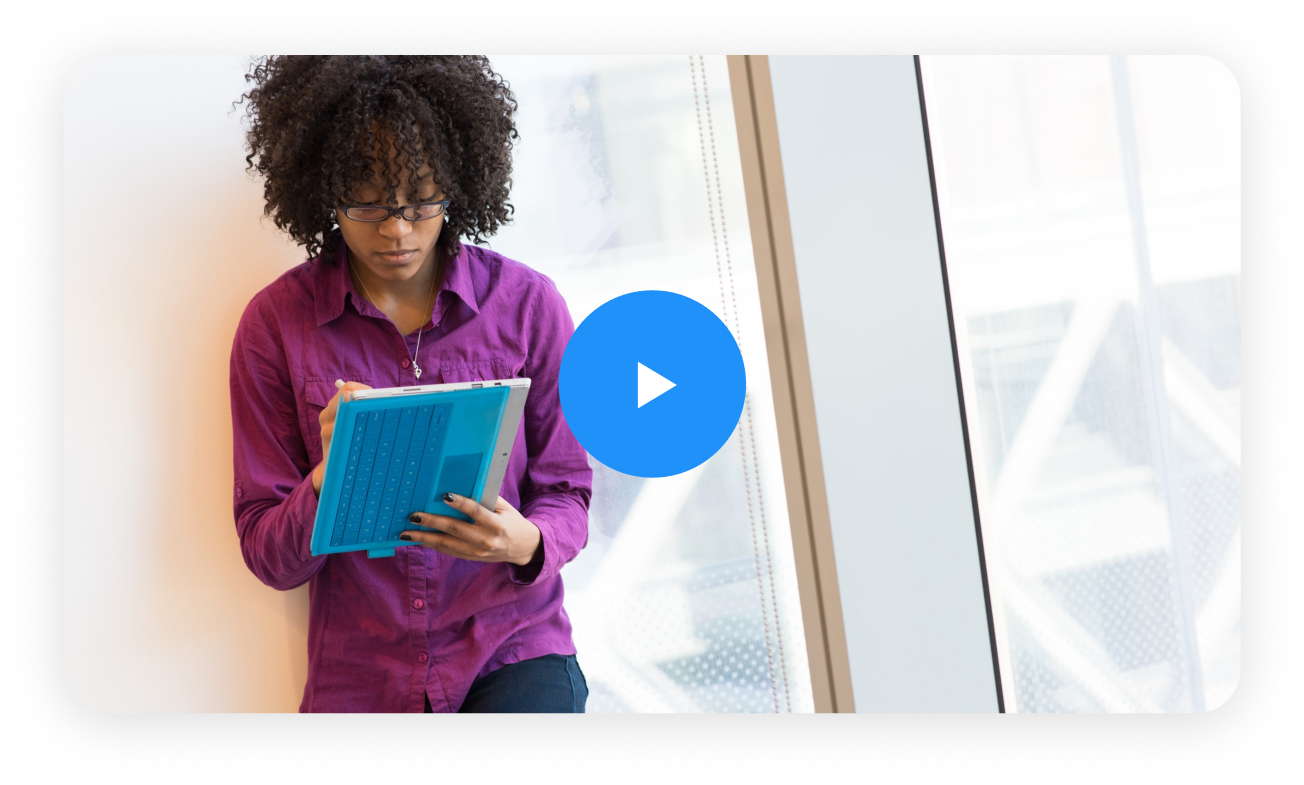
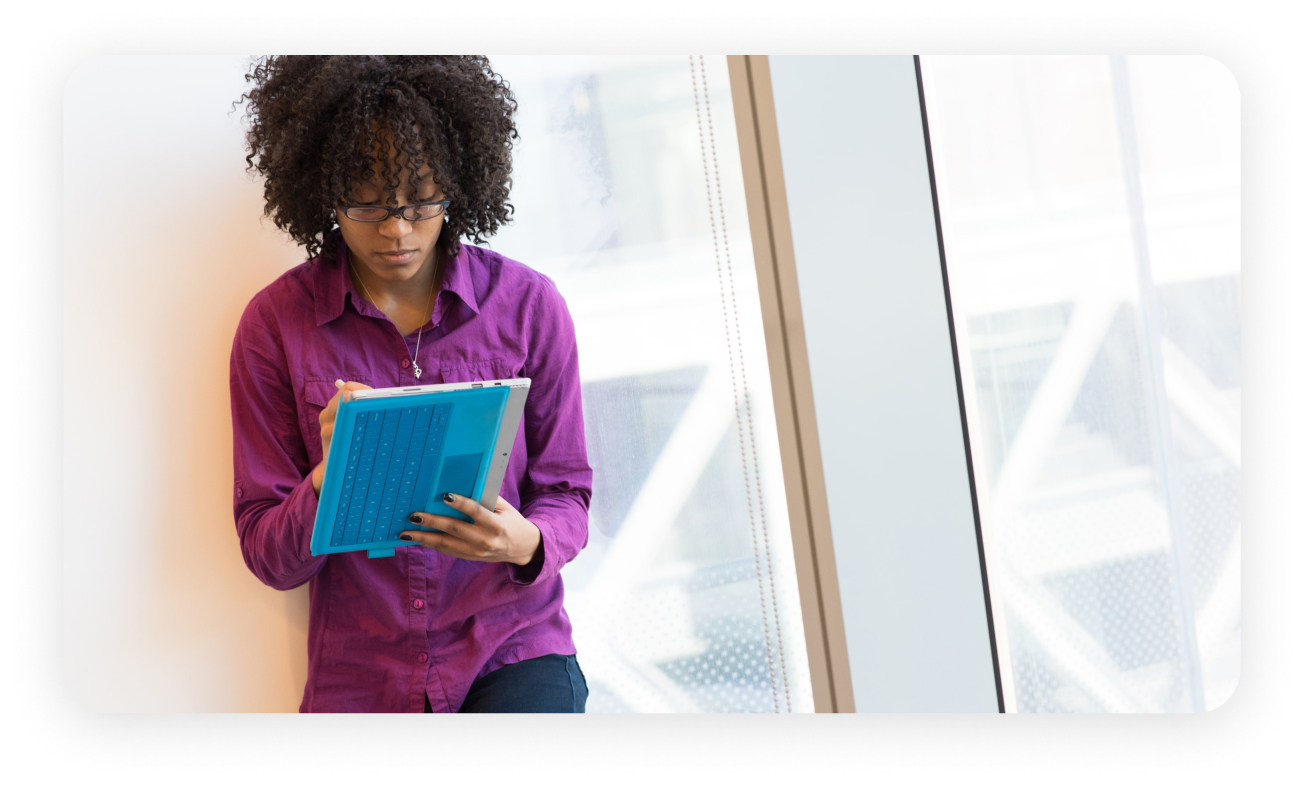
Add files via upload

Changed region(s): [[0.4294, 0.3669, 0.5828, 0.6115]]

diff --git a/styles/style.css b/styles/style.css
@@ -45,6 +45,12 @@ line-height: 28px;
 letter-spacing: 0.2px;
 padding-right: 41px;
 }
+.header__social{
+  display: flex;
+}
+.header__social li{
+  padding-right: 32px;
+}
 .hesder_content{
   max-width: 770px;
   width: 100%;
@@ -80,6 +86,7 @@ border-radius: 35px;
 color: #fff;
 text-align: center;
 padding: 14px 32px;
+cursor: pointer;
 }
 /* section==== features====*/
 
@@ -136,7 +143,15 @@ text-align: center;
 .features__video{
   padding-top: 132px;
   margin-bottom: 64px;
-
+  position: relative;
+}
+.but_play{
+  position: absolute;
+  top:43%;
+  left: 43%;
+  border: none;
+  background:none;
+  
 }
 .features__video video{
   padding-bottom: 52px;
@@ -178,6 +193,14 @@ border-radius: 39px;
 padding: 19px, 39px, 19px, 39px;
 
 }
+
+input, textarea{
+  padding: 0 20px;
+}
+textarea{
+  padding-top:25px;
+}
+
 .main-feedbac{
   display: flex;
   align-items: baseline;
@@ -253,9 +276,11 @@ padding-bottom: 27px;
  align-items: center;
   text-align: center;
   width: 100%;
+  max-width: 1777px;
   background: #252B42;
   height:  1155px;
   justify-content: center;
+  margin: 0 auto;
 }
 .pricing__title h2{
   color: #fff;
@@ -276,7 +301,7 @@ line-height: 55px
   height: 700px;
 }
 .card{
-  background: #FFFFFF;
+background: #FFFFFF;
 border: 1px solid #DEDEDE;
 box-sizing: border-box;
 box-shadow: 0px 13px 19px rgba(0, 0, 0, 0.07);
@@ -345,8 +370,10 @@ width: 255px;
 left: 40px;
 top: 511px;
 border-radius: 35px;
-padding: 18px, 38px, 18px, 38px;
 }
+.pricing_feature li:last-child{
+padding-top: 40px;
+} 
 .card:hover{
 height: 693px;
 width: 335px;
@@ -355,6 +382,37 @@ padding: 83px, 40px, 83px, 40px;
 background: #2091F9;
 color: #fff;
 }
+.d1{
+  display:block;
+}
+.d2{
+  display: none;
+}
+  .card:hover h3 {
+  color: #fff;
+  }
+    .card:hover h5{
+      color: #fff;
+      }
+      .card:hover p{
+        color: #fff;
+        }
+        .card:hover li{
+          color: #fff;
+          }
+          .card:hover a{
+            margin-top: 40px;
+            color: #2091F9;
+            background:#fff;
+            }
+            .card:hover .d1{
+              display: none;
+            }
+            .card:hover .d2{
+              display: block;
+              width: 13px;
+              height: 28px;
+            }
 .contacts__item{
   text-align: center;
   padding: 213px 0 27px 0;
@@ -423,11 +481,12 @@ ul h5{
 }
 .footer{
   height: 567px;
-  width: 1777px;
+  max-width: 1777px;
   border-radius: 0px;
   padding: 150px, 0px, 150px, 0px;
   background: #252B42;
   width: 100%;
+  margin: 0 auto;
 }
 .footer__item{
   display: flex;

diff --git a/index.html b/index.html
@@ -21,9 +21,11 @@
 					<li><a class="menu_link" href="#">Contact</a></li>
 					<li><a class="menu_link" href="#"><img src="img/header/figma_logo.svg"></a></li>	
 					</ul>
-					<div class="social">
-						<img src="img/header/header_social.svg">
-					</div>
+				<ul class="header__social">
+					<li><a class="" href="#" ><img src="img/header/ant-design_twitter-outlined.svg" alt=""></a></li>
+					<li><a class="" href="#"><img src="img/header/ant-design_facebook-filled.svg" alt=""></a></li>			
+					<li><a class="" href="#"><img src="img/header/ant-design_linkedin-filled.svg" alt=""></a></li>			
+				</ul>
 			</div>
 		</div>
 		<div class="intro">
@@ -70,7 +72,11 @@
 						</ul>
 					<div class="features__video">
 						<video src="#" poster="img/feature/video.jpg"></video>
+						<button class="but_play"><img src="img/feature/play_button.svg" alt=""></button>
 					</div>
+					
+						
+					
 				</div>
 			</div>
 		</section>
@@ -191,7 +197,8 @@
 						<div class="cards__price">
 							<p class="price">0</p>
 							<div>
-								<img src="img/Price/dolr.svg" alt="">	
+								<div class="d1"><img  src="img/Price/dolr.svg" alt=""></div>
+								<div  class="d2"><img src="img/Price/whi.svg" alt=""></div>
 							<p class="ptice_sub"> Per Month </p>
 							</div>	
 						</div>
@@ -213,7 +220,8 @@
 						<div class="cards__price">
 							<p class="price">10</p>
 							<div>
-								<img src="img/Price/dolr.svg" alt="">	
+								<div class="d1"><img  src="img/Price/dolr.svg" alt=""></div>
+								<div  class="d2"><img src="img/Price/whi.svg" alt=""></div>	
 							<p class="ptice_sub"> Per Month </p>
 							</div>	
 						</div>
@@ -235,7 +243,8 @@
 						<div class="cards__price">
 							<p class="price">99</p>
 							<div>
-								<img src="img/Price/dolr.svg" alt="">	
+								<div class="d1"><img  src="img/Price/dolr.svg" alt=""></div>
+								<div  class="d2"><img src="img/Price/whi.svg" alt=""></div>
 							<p class="ptice_sub"> Per Month </p>
 							</div>	
 						</div>
@@ -266,7 +275,7 @@
 						<form action="#">
 							<input class="input_a" type="text" placeholder="Your Name">
 							<input class="input_a" type="text" placeholder="Your Email">
-							<input class="text_area" type="text" placeholder="Your Message">
+							<textarea class="text_area" type="text" placeholder="Your Message"></textarea>
 							<a href="#" class="btn">Send</a>
 						</form>
 					</div>
